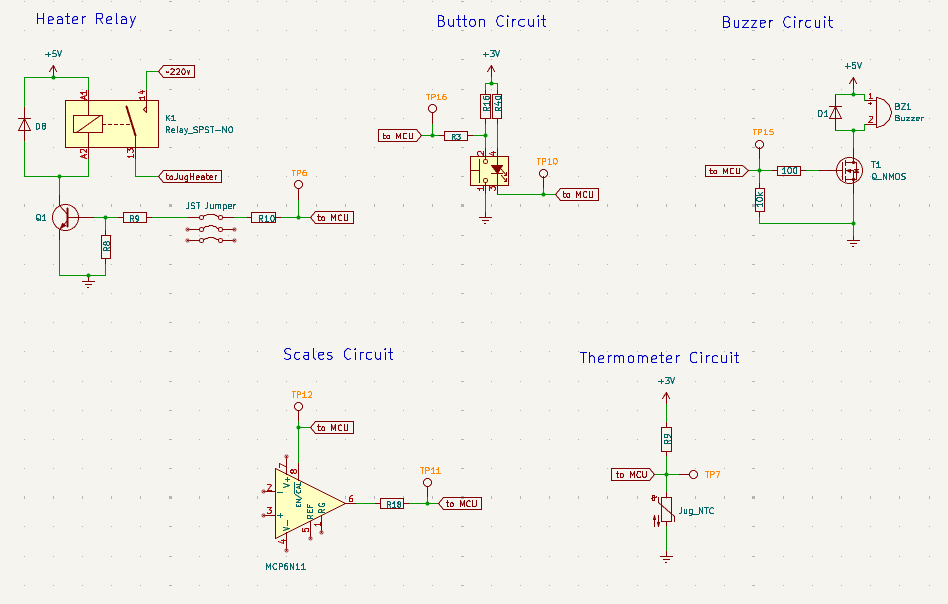
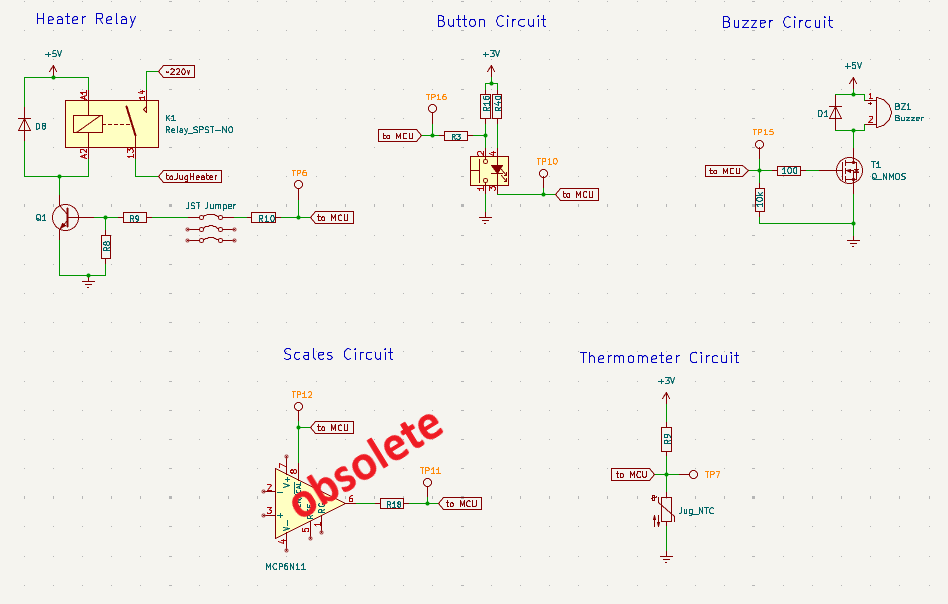
update readme hx711

Changed region(s): [[0.3059, 0.6854, 0.4589, 0.8642]]

diff --git a/README.md b/README.md
@@ -2,9 +2,9 @@
 
 ![Smarter Kettle](photos/Smarter%20Kettle.jpg)
 
-Welcome to the open-source ESPHome retrofit for the "Smarter" brand connected kettle. This project completely replaces the proprietary, cloud-dependent microcontroller with an ESP32 (Wemos D1 Mini32), providing 100% local control through Home Assistant. 
+Welcome to the open-source ESPHome retrofit for the "Smarter" brand connected kettle. This project completely replaces cloud-dependent microcontroller with an ESP32, providing 100% local control through Home Assistant. 
 
-This repository (licensed under GPLv3) contains everything you need to hardware-mod the kettle base and flash the custom ESPHome firmware to achieve a stable, production-ready smart appliance with persistent settings, safety interlocks, and custom RTTTL buzzer melodies.
+This repository (licensed under GPLv3) contains everything you need to hardware-mod the kettle base and flash the custom ESPHome firmware to achieve a stable, production-ready smart appliance with persistent settings, safety interlocks, custom RTTTL buzzer melodies and my lerned lessons.
 
 ---
 
@@ -35,8 +35,8 @@ Here are the reference shots of the low-voltage logic board where all the modifi
 ![Schematics](photos/schematics.png)
 
 Before modifying the board, you should understand the two main sensor pipelines:
-* **Temperature & Safety (NTC):** Acts as both the temperature sensor and a physical "Jug Present" safety interlock. If the jug is lifted, the electrical circuit breaks, and the ESP32 instantly shuts off the heating relay.
-* **Volume/Weight (Load Cell):** The kettle sits on a load cell fed into an MCP6N11 Instrumentation Amplifier (INA). 
+* **Temperature & Safety (NTC):** Acts as both the temperature sensor and a physical "Jug Present" safety interlock. If the jug is lifted, the NTC electrical circuit breaks and the ESP32 instantly shuts off the heating relay.
+* **Water volume/Weight (Load Cell):** The kettle sits on a load cell fed into an MCP6N11 Instrumentation Amplifier (INA). This INA brings the analog voltage to MCU ADC pin. If this voltage is in anyway changed on it's way to ESP, the readings will fail or drift, like in my case. I replaced the whole scale circuit with HX711 circuit. HX711 does all analogic conversions internally and wires out a stable digital square wave.
 
 ---
 
@@ -45,67 +45,126 @@ Before modifying the board, you should understand the two main sensor pipelines:
 Follow these steps to retrofit your kettle's logic board. 
 
 ### 1. Remove the Original MCU
-Using a hot air rework station, carefully heat and desolder the original proprietary microcontroller from the logic board. Clean the pads with solder wick once removed.
+Using a hot air rework station, carefully heat and desolder the original proprietary microcontroller from the logic board. Since you don't care if you damage it, overheating or some mechanical damage is not an issue.
+Clean the pads with solder wick once removed.
 ![Desoldering the MCU](photos/PXL_20260818_083846003.jpg)
 
 ### 2. Choose Your Microcontroller
-You can technically use an ESP8266 for this project, but **it is not recommended**. The ESP8266 only has a single analog-to-digital converter (ADC), meaning you would only be able to read the temperature and you would lose the scale functionality. 
+Before i decided to ditch the existing Scale MCP6N11, I needed two ADC (Analog-to-Digital Converter) pins on ESP: 
+- for reading raw voltage from NTC Thermistor
+- for reading the raw voltage coming from INA. 
 
-We highly recommend using an **ESP32** (like the Wemos D1 Mini32 used in this guide) because it features multiple ADCs, allowing you to read both the NTC temperature sensor and the load cell simultaneously.
+ESP8266 has only **ONE** ADC pin. 
+
+With HX711 you need two extra GIOs and only one ADC pin for temperature. In this setup you can use an ESP8266 for this project. 
+
+We will be using an **ESP32 Wemos D1 Mini32** (because i was too lazy to resolder everything back to ESP8266 :-)  ).
 ![ESP32 Preparation](photos/PXL_20260823_121918432.jpg)
 
 ### 3. Wire the ESP32 to the Test Points
-Mount your ESP32 and wire it to the exposed test points on the Smarter logic board. Use the following table to map the kettle's schematic test points to the correct ESP32 GPIO pins configured in the firmware.
+The original kettle board is reused (except for scales circuit). Mount your ESP32 and wire it to the exposed Test Points (TP) on the Smarter logic board. Use the following table to map the kettle's schematic test points to the correct ESP32 GPIO pins configured in the firmware.
 
 | Kettle Function | Schematic Test Point | ESP32 GPIO | Description |
 | :--- | :--- | :--- | :--- |
-| **Scale Power (EN/CAL)** | `TP12` | `GPIO16` | Triggers the INA amplifier calibration and powers the scale. |
 | **Base Button** | `TP16` | `GPIO17` | Physical button input (inverted, internal pull-up). |
 | **Buzzer** | `TP15` | `GPIO19` | PWM output for RTTTL melodies. |
 | **Button LED** | `TP10` | `GPIO21` | Illuminates the ring around the button. |
-| **Heating Relay** | `TP6 OR JST pin` | `GPIO22` | Triggers the high-voltage relay to boil the water. |
-| **NTC Sensor** | `TP7` | `GPIO33` | Analog temperature and jug presence reading. |
-| **Weight Sensor** | `TP11` | `GPIO35` | Analog output from the MCP6N11 INA. |
+| **Heater Relay** | `TP6 OR JST pin` | `GPIO22` | Triggers the high-voltage relay to boil the water. |
+| **NTC Sensor** | `TP7` | `GPIO34` | Analog temperature and jug presence reading. |
+| **HX711 DT** |  | `GPIO33` | HX711 Data. |
+| **HX711 SCK** |  | `GPIO18` | HX711 CLock. |
+| ~~**Scale Power (EN/CAL)**~~ | ~~`TP12`~~ | ~~`GPIO16`~~ | ~~Triggers the INA amplifier calibration and powers the scale.~~|| ~~**Weight Sensor**~~ | ~~`TP11`~~ | ~~`GPIO35`~~ | ~~Analog output from the MCP6N11 INA.~~ |
+| ~~**Weight Sensor**~~ | ~~`TP11`~~ | ~~`GPIO35`~~ | ~~Analog output from the MCP6N11 INA.~~ |
 
-*(Please verify the exact test point labels against your specific schematic version).*
+
 
 ![Test Points Wiring](photos/PXL_20260823_154602239.jpg)
 
 ### 4. Hardware Test Firmware
-Before sealing everything up, use the provided `test code_Kettle_ESP32_v1.txt` file to quickly verify your soldering and hardware[cite: 2]. This minimal ESPHome configuration will:
-* Toggle the Button LED and log the live temperature, volume, button state, and relay state to your console every 1 second[cite: 2].
-* Play a short beep and manually engage the heating element while you hold the physical button down[cite: 2].
+Before sealing everything up, I used the provided `test code_Kettle_ESP32_v1.txt` file to quickly verify my soldering and hardware. This minimal ESPHome configuration will:
+* Toggle the Button LED and log the live temperature, volume (old scales circuit), button state, and relay state to your console every 1 second.
+* Play a short beep and manually engage the heating element while you hold the physical button down.
+
+>Note: this test code does **not include** HX711 tests but includes the, now obsolete, MCP6N11 tests. It needs a little updates.
 
 ### 5. Modify the Scales Circuit
-To get clean readings from the MCP6N11 instrumentation amplifier, you need to bypass a high-resistance path that causes severe RC-delay and voltage drift. Locate **R18** on the PCB and bridge it with solder (short it out).
+I tried to reuse the existing INA IC and curcuit to read the load cell. Sadly it drifted slowly and was very unreliable after some time. The reason could be my poor reverse-engineering, or the wires picking up noise. I decided to use HX711 IC because it handles the analogic voltage amplification and measurement inside the IC.
+The original MCP6N11 sent the raw voltage variations to the MCU and the MCU should judge the weight by the tiny voltage changes on the ADC pin.
 
-* **Before:** ![Scales Before](photos/scales_before.jpg)
-* **After:** ![Scales After](photos/scales_after.jpg)
+HX711 communicates over 3.3v digital signals to ESP. It can go 5v, but ESP limits the direct IO on the pins to 3.3v.
 
-> **⚠ Disclaimer:** The load cell and scale circuit are highly sensitive. Even with the R18 bypass and pulsed calibration routines in the firmware, the scale readings are currently experimental and may experience drifting under static load. Further tuning of the ESPHome interval logic is ongoing.
+Use the below diagram and use the same resistors type/batch/size. Check how i [screwd it up](#f2-hx711-load-cell-resistors)
+
+
+ ![HX711 and the Load Cell.](photos/HX711 Load Cell.jpg)
+ ![](photos/HX711_1.jpg)
+
 
 ---
-### 5. Software
+##  Software
 
 I added single and double-click settings for different boil temperatures. Defaults are 85*C for single and 95*C for double click. You can modify these values through HA.
 
 Long 10sec button hold will reset the wifi and other settings and enable the Access Point for direct connection.
 
-Add the device in your Home Assistant ESPHome Builder.
+- Add the device in your Home Assistant ESPHome Builder and flash ESPHome.
+- add Secrets for your Wifi in HA to avoid having the wifi pass on the yaml. Check the three-dot menu in the ESPHome Device Builder.
+- [Calibrate](#f3-calibration-of-hx711) your scales
 
-
-## Features: Melodies & Tones
+### Features: Melodies & Tones
 Why settle for standard beeps? The custom firmware includes an integrated RTTTL engine utilizing the kettle's built-in buzzer. By default, the kettle will play a standard double-beep when boiling finishes, but on every **3rd completed boil**, it will randomly select and play a fun melody (like Mario, Tetris, or the Imperial March) to celebrate!
 
-## Firmware Installation
+### Firmware Installation
 
 Once the hardware modifications are complete and tested, head over to the [ESPHome Code](ESPHome%20Code/Smart%20Kettle%20-%20ESPHome.yaml) directory in this repository. Flash the provided full YAML configuration to your ESP32 to integrate the kettle with Home Assistant.
 
 ---
 
-## Final Result
+# Final Result
 
 Once reassembled, you have a completely local, lightning-fast smart kettle seamlessly integrated into your smart home ecosystem!
 
+The beauty also lies in the full reuse on the existing PCB boards.
+
 ![Final Result 1](photos/PXL_20260823_222621114.jpg)
 ![Final Result 2](photos/PXL_20260826_144254008.jpg)
+![Final Result 3](photos/HX711_1.jpg)
+
+
+
+## My fails and Lessons Learned
+
+### f1. original Analog Scales circuit
+I did a pretty good-ish job reverse engineering the existing board so no PCB worksare required. But the scales inthe wnd were giving too unstable readings so i had tomove to HX711.
+Instrument Amplifier will take tiny voltagechanges on the cell and send themto ADC pin. The MCU should extrapolate the weight change based on the voltage change. If noise gets on this circuit - good luck.
+The shorter the analog path - the better.
+[Original Scales](photos/scales_after.jpg)
+
+### f2. HX711 Load cell resistors
+HX711 can connect many load cells, but in our case we have only one cell that has three wires. The diagram requires us to use two 1k ohm resistors. To be fancy i reused a 0603 SMD resistor from an older device, as it fits perfectly between 2.54mm pins and a normal 0.125W THT resistor. 
+
+The difference in power rating and thermal curves added a big drift in the cell wight readings. It just could not stop in a usable range.
+At least is looked cool, for a while :)
+
+![](photos/HX711_smd.jpg)
+![](photos/HX711_smd2.jpg)
+
+
+
+### f3. Calibration of HX711
+
+in the Devices -> ESPHome -> SmartKettle you can observe realtime the value the HX711 is returning.
+
+I created a spreadsheed with two colums: empty and 1.5L of water.
+
+Now over the course of 30-60 minutes i was randomly recording the value of the raw scale output. This allowed me to make an average for "empty" and "full" jug.
+mind that the values are negative.
+
+After you have the values, you can use calibration input fields on HA or just hardcode them in the code
+
+```
+initial_value: -4448800
+```
+
+
+
